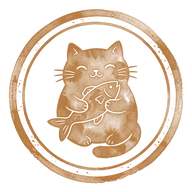
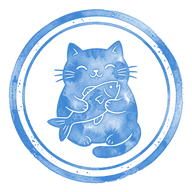
piano-pet: ねこスタンプを10種に絞り、3種を描き直して5色×2に配色し直す
- ねんね・ばんざい・かおあらい・おんぷとダンス・ピアノをひく・おすわりを削除
- ねこパンチ（ストレート）・ジャンプ（飛び猫）・なべねこ（まるくなる→土鍋）を描き直し
- 残る10種を5色×2種に配り直し、ユニットテストで「どの色も2種」を固定
- features.md の絵柄の表・色・設計判断・アセットの実測値を更新

Closes #413

diff --git a/apps/piano-pet/js/stamp-book.js b/apps/piano-pet/js/stamp-book.js
@@ -7,25 +7,19 @@ export const CARD_MAX = 60;
 export const REWARD_EMOJIS = ['🎁', '🍦', '🧸', '📚', '🎡', '🍰', '🚗', '🦁'];
 export const REWARD_MAX_LEN = 20;
 
-// 猫の姿16種（色は姿ごとに固定）。絵は img/stamp/{id}.webp に色ごと焼き込み済み（#410）。
-// STAMP_INKS は画像の色の記録で描画には使わない。並び順は designForDate の結果を決めるので変えない
+// 猫の姿10種（色は姿ごとに固定・5色×2）。絵は img/stamp/{id}.webp に色ごと焼き込み済み（#410）。
+// STAMP_INKS は画像の色の記録で描画には使わない。並び順は designForDate の結果を決める
 export const STAMP_INKS = { red: '#e0574f', blue: '#3d86d4', green: '#3a9e68', purple: '#9563cc', brown: '#b5793f' };
 export const STAMP_DESIGNS = [
-  ['nenne', 'ねんね', 'blue'],
   ['nobi', 'のび〜', 'green'],
-  ['piano', 'ピアノ', 'purple'],
-  ['sakana', 'おさかな', 'brown'],
+  ['sakana', 'おさかな', 'blue'],
   ['keito', 'けいとだま', 'brown'],
   ['hako', 'はこ', 'brown'],
-  ['banzai', 'ばんざい', 'red'],
   ['ojigi', 'おじぎ', 'purple'],
   ['fumifumi', 'ふみふみ', 'green'],
-  ['marui', 'まるくなる', 'blue'],
+  ['nabe', 'なべねこ', 'blue'],
   ['punch', 'ねこパンチ', 'red'],
-  ['onpu', 'おんぷ', 'purple'],
-  ['kaoarai', 'かおあらい', 'blue'],
-  ['osuwari', 'おすわり', 'green'],
-  ['heart', 'しっぽハート', 'red'],
+  ['heart', 'しっぽハート', 'purple'],
   ['jump', 'ジャンプ', 'red'],
 ].map(([id, name, ink]) => ({ id, name, ink }));
 
@@ -50,7 +44,7 @@ function rng(seed) {
   };
 }
 
-// 日付→絵柄（保存しない）。16日ごとのブロック内では同じ絵が出ない
+// 日付→絵柄（保存しない）。種類数ぶんの日ごとのブロック内では同じ絵が出ない
 export function designForDate(date) {
   const n = dayNumber(date);
   const N = STAMP_DESIGNS.length;

diff --git a/apps/piano-pet/tests/stamp-book.test.js b/apps/piano-pet/tests/stamp-book.test.js
@@ -129,9 +129,10 @@ describe('カードの作成・ごほうび・持ち越し（#409）', () => {
 });
 
 describe('絵柄（#409）', () => {
-  it('16種・色は5色のどれか', () => {
-    expect(STAMP_DESIGNS).toHaveLength(16);
-    expect(new Set(STAMP_DESIGNS.map((d) => d.ink)).size).toBe(5);
+  it('10種・5色を2種ずつ', () => {
+    expect(STAMP_DESIGNS).toHaveLength(10);
+    const count = (ink) => STAMP_DESIGNS.filter((d) => d.ink === ink).length;
+    for (const ink of Object.keys(STAMP_INKS)) expect(count(ink), ink).toBe(2);
     for (const d of STAMP_DESIGNS) expect(STAMP_INKS[d.ink]).toBeTruthy();
   });
 
@@ -141,12 +142,12 @@ describe('絵柄（#409）', () => {
     }
   });
 
-  it('日付だけで決まり、16日のまとまりの中では同じ絵が出ない', () => {
+  it('日付だけで決まり、10日のまとまりの中では同じ絵が出ない', () => {
     expect(designForDate('2026-11-03')).toBe(designForDate('2026-11-03'));
     const base = Date.UTC(2026, 0, 1) / 86400000;
-    const start = Math.ceil(base / 16) * 16;
-    const ids = Array.from({ length: 16 }, (_, i) => designForDate(new Date((start + i) * 86400000).toISOString().slice(0, 10)).id);
-    expect(new Set(ids).size).toBe(16);
+    const start = Math.ceil(base / 10) * 10;
+    const ids = Array.from({ length: 10 }, (_, i) => designForDate(new Date((start + i) * 86400000).toISOString().slice(0, 10)).id);
+    expect(new Set(ids).size).toBe(10);
   });
 });
 

diff --git a/apps/piano-pet/sw.js b/apps/piano-pet/sw.js
@@ -1,14 +1,14 @@
 // ===== Service Worker（ネットワーク優先＋オフラインフォールバック） =====
-const CACHE = 'piano-pet-780349bd';
+const CACHE = 'piano-pet-bd62fb50';
 
 const APP_SHELL = [
   './',
   './index.html',
-  './css/cat.css?v=780349bd',
-  './css/style.css?v=780349bd',
+  './css/cat.css?v=bd62fb50',
+  './css/style.css?v=bd62fb50',
   './js/account.js',
   './js/analytics.js',
-  './js/app.js?v=780349bd',
+  './js/app.js?v=bd62fb50',
   './js/backup.js',
   './js/badges.js',
   './js/cat-image.js',
@@ -135,21 +135,15 @@ const APP_SHELL = [
   './img/cat/scene/tree.webp',
   './img/cat/scene/window.webp',
   './img/cat/scene/yarnBall.webp',
-  './img/stamp/banzai.webp',
   './img/stamp/fumifumi.webp',
   './img/stamp/hako.webp',
   './img/stamp/heart.webp',
   './img/stamp/jump.webp',
-  './img/stamp/kaoarai.webp',
   './img/stamp/keito.webp',
-  './img/stamp/marui.webp',
-  './img/stamp/nenne.webp',
+  './img/stamp/nabe.webp',
   './img/stamp/nobi.webp',
   './img/stamp/ojigi.webp',
-  './img/stamp/onpu.webp',
-  './img/stamp/osuwari.webp',
   './img/stamp/paw.webp',
-  './img/stamp/piano.webp',
   './img/stamp/punch.webp',
   './img/stamp/sakana.webp',
   './sounds/hiss1.mp3',

diff --git a/apps/piano-pet/index.html b/apps/piano-pet/index.html
@@ -16,8 +16,8 @@
       if (t === 'dark' || t === 'light') document.documentElement.dataset.theme = t;
     } catch (e) {}
   </script>
-  <link rel="stylesheet" href="css/style.css?v=780349bd">
-  <link rel="stylesheet" href="css/cat.css?v=780349bd">
+  <link rel="stylesheet" href="css/style.css?v=bd62fb50">
+  <link rel="stylesheet" href="css/cat.css?v=bd62fb50">
   <link href="https://fonts.googleapis.com/css2?family=Mochiy+Pop+One&family=Noto+Sans+JP:wght@400;500;700&display=swap" rel="stylesheet">
 </head>
 <body>
@@ -538,6 +538,6 @@
 
   </div>
 
-  <script type="module" src="js/app.js?v=780349bd"></script>
+  <script type="module" src="js/app.js?v=bd62fb50"></script>
 </body>
 </html>
